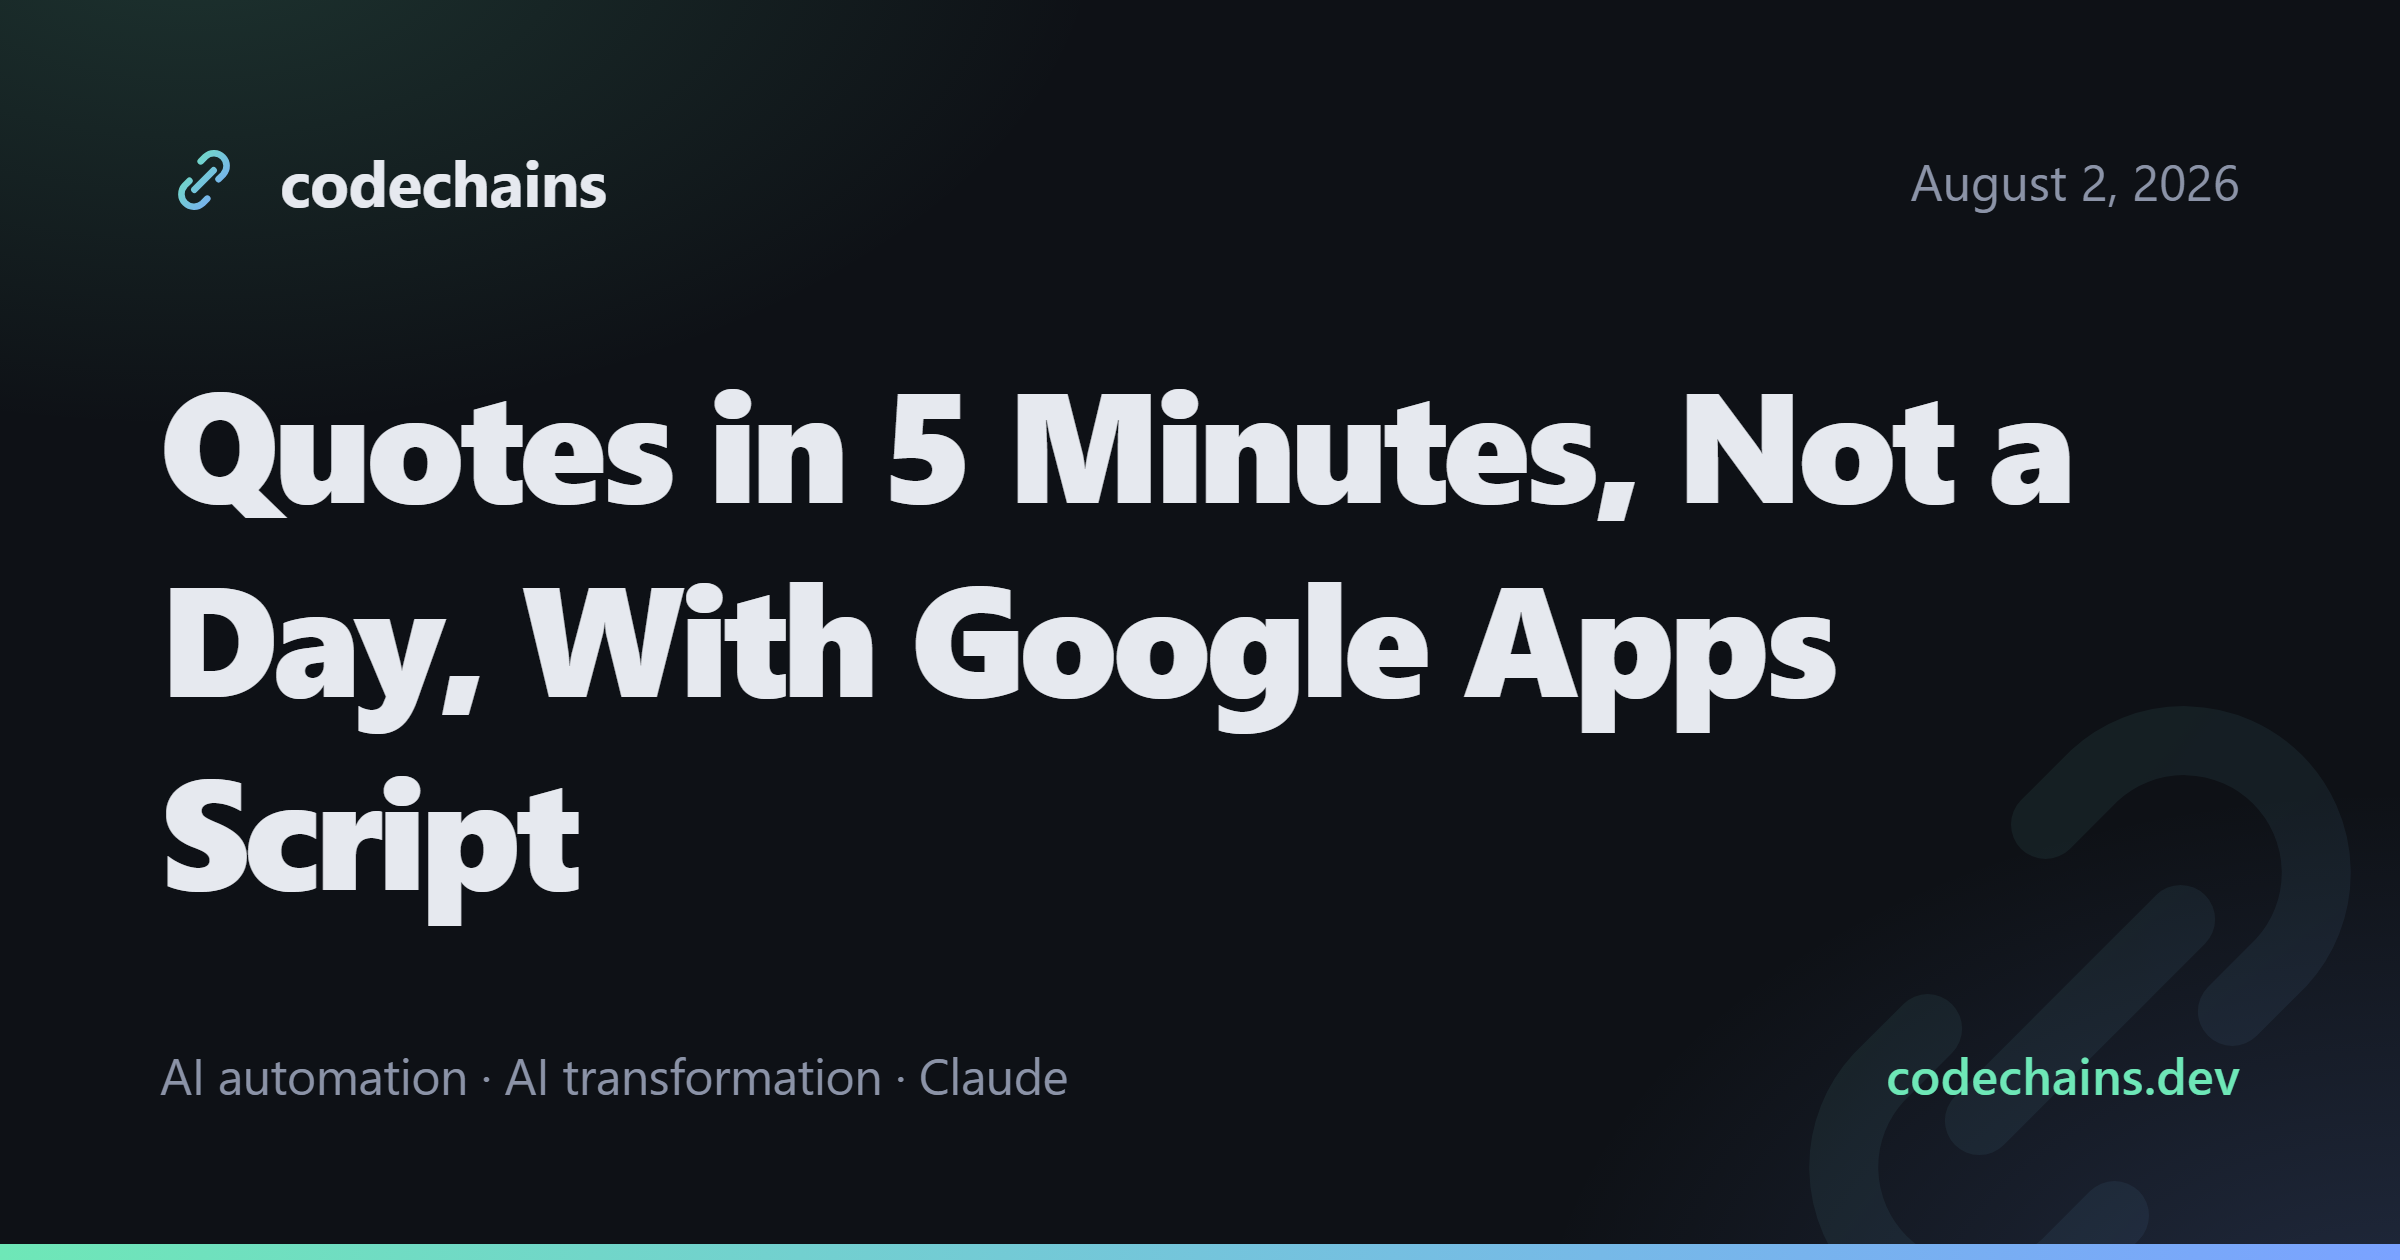
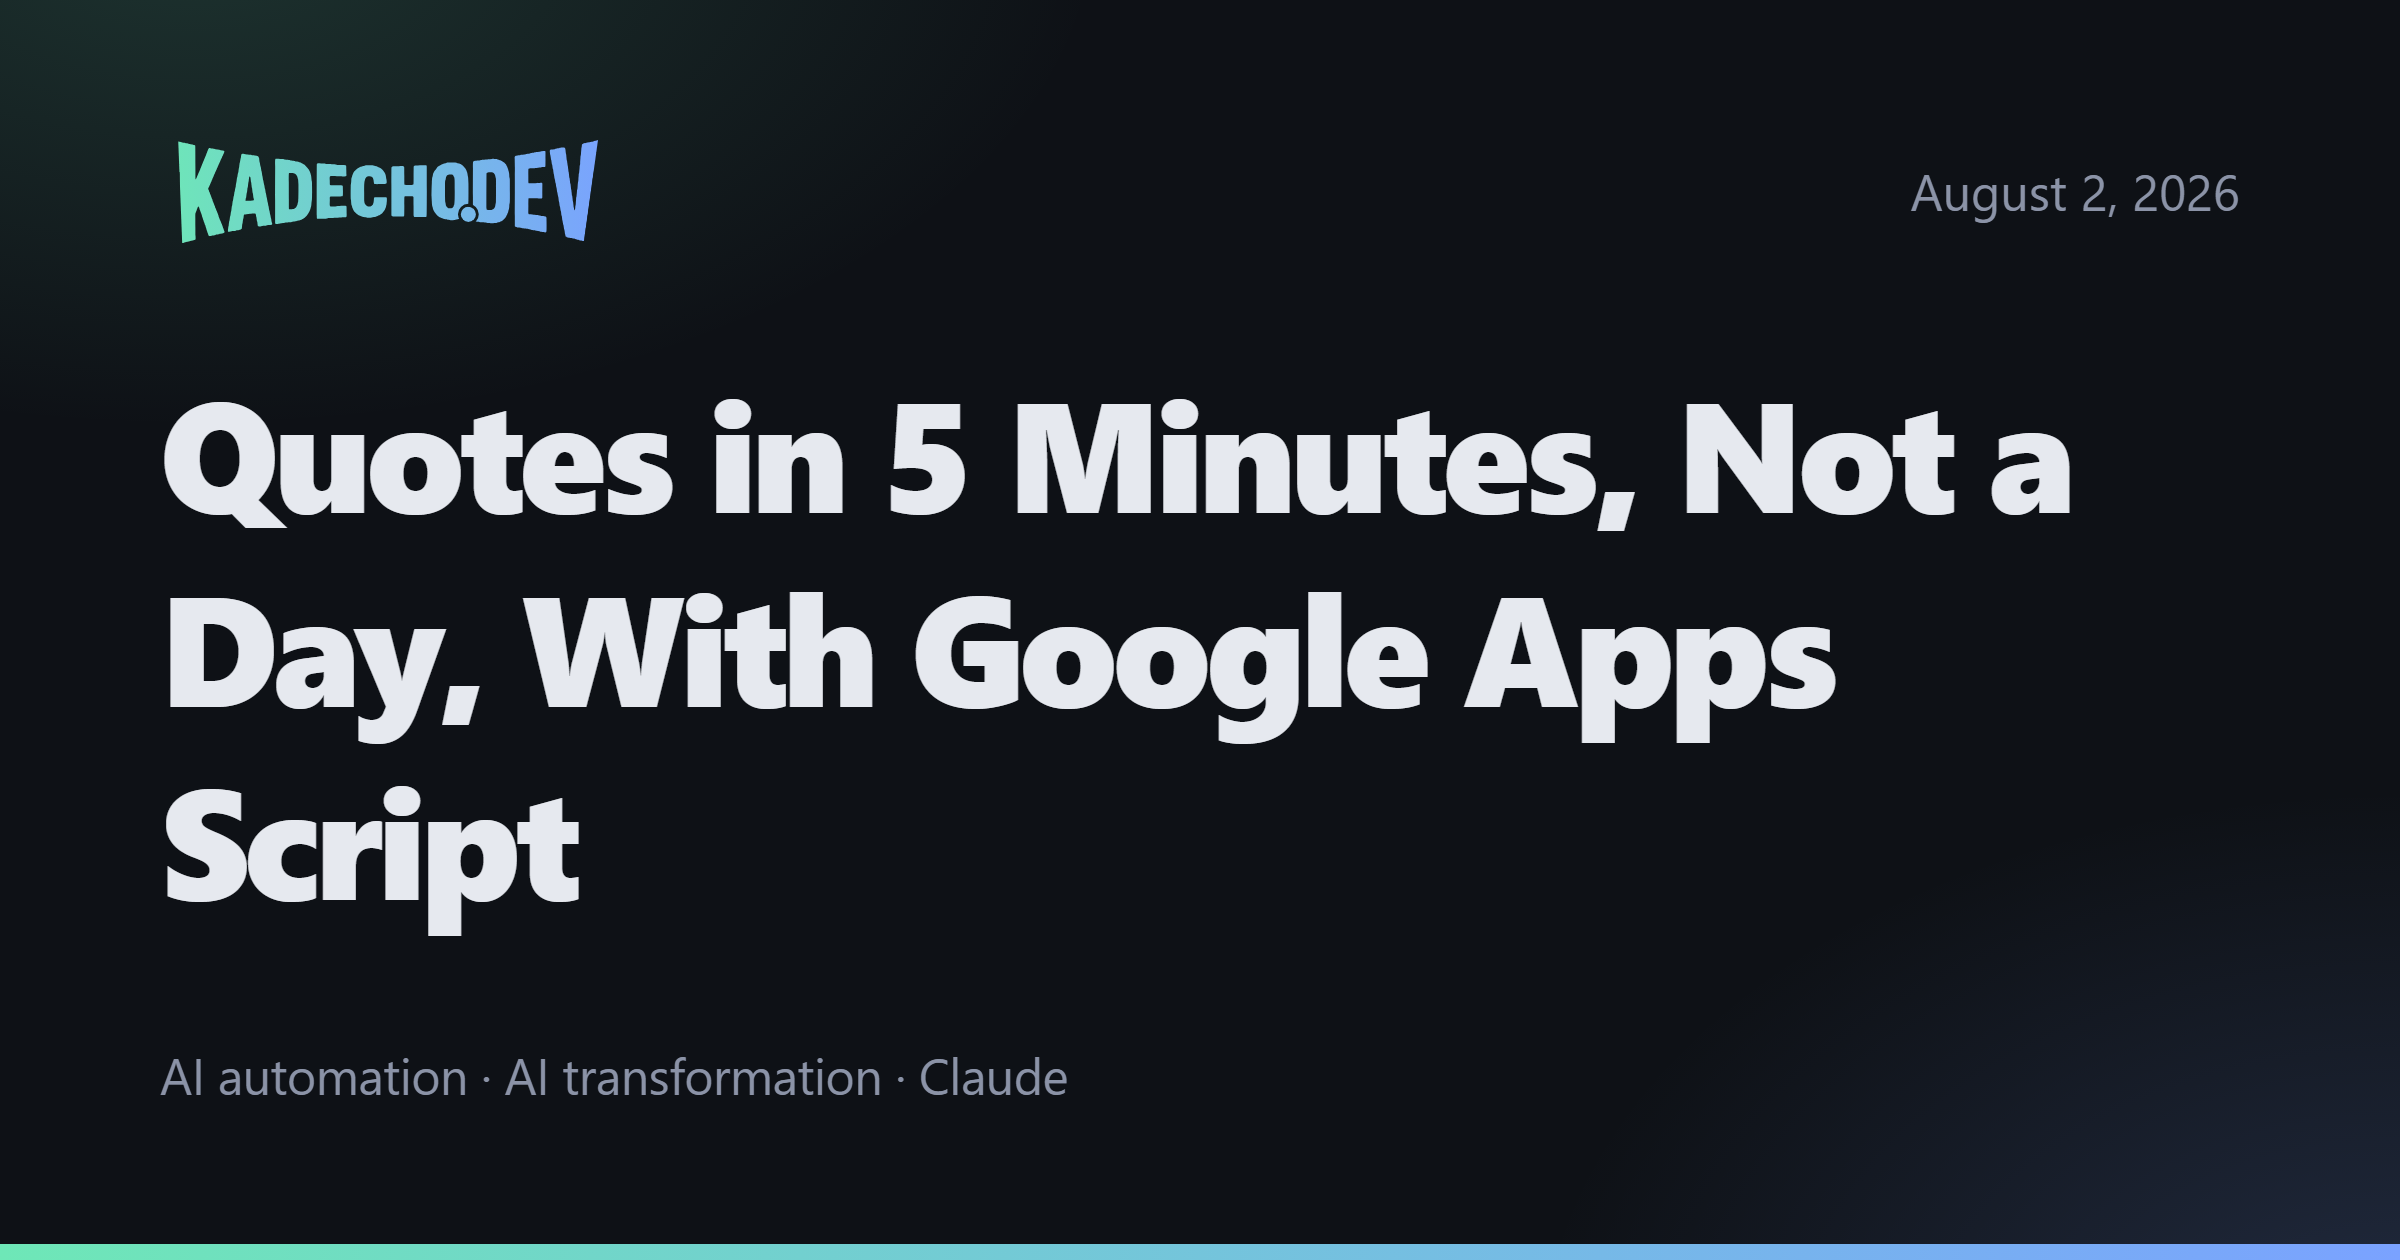
공유 카드에 워드마크 적용
카드 위쪽의 체인 아이콘과 "codechains" 글자를 워드마크 하나로 바꿨습니다.
헤더가 쓰는 파일을 그대로 읽어 오므로, 로고를 다시 만들면 카드도 같이 따라옵니다.

- 오른쪽 아래에 흐리게 깔려 있던 큰 체인 아이콘을 뺐습니다.
  헤더에서 뺀 아이콘이 카드에만 남으면 브랜드가 갈라집니다.
- 아래쪽 오른편의 주소 표기도 뺐습니다. 위쪽 워드마크가 이미 도메인입니다.
- 안 쓰게 된 체인 아이콘 상수를 지웠습니다.
- 카드 9장을 다시 만들었습니다.

만들고 나서 PNG 픽셀을 열어 워드마크가 실제로 그려졌는지 확인했습니다.
처음에는 안 그려졌습니다. 크기 속성을 뗀다는 것이 파일 전체에 걸려서
마스크 안쪽 rect 의 크기까지 지웠고, 마스크가 통째로 검게 되어 로고가 사라졌습니다.
루트 svg 태그에만 걸리도록 고쳤습니다.

diff --git a/scripts/make-og.js b/scripts/make-og.js
@@ -55,12 +55,19 @@ function findChrome() {
   return candidates.find((p) => fs.existsSync(p)) || null;
 }
 
-const LOGO = `<svg viewBox="0 0 32 32" fill="none" xmlns="http://www.w3.org/2000/svg">
-<path d="M12.5 19.5l7-7" stroke="url(#g)" stroke-width="2.4" stroke-linecap="round"/>
-<path d="M14.8 9.2l1.7-1.7a4.6 4.6 0 016.5 6.5l-1.7 1.7" stroke="url(#g)" stroke-width="2.4" stroke-linecap="round"/>
-<path d="M17.2 22.8l-1.7 1.7a4.6 4.6 0 01-6.5-6.5l1.7-1.7" stroke="url(#g)" stroke-width="2.4" stroke-linecap="round"/>
-<defs><linearGradient id="g" x1="6" y1="8" x2="26" y2="24" gradientUnits="userSpaceOnUse">
-<stop stop-color="#6ee7b7"/><stop offset="1" stop-color="#7aa2ff"/></linearGradient></defs></svg>`;
+/* 카드 위쪽에 들어가는 워드마크.
+   헤더가 쓰는 것과 같은 파일을 그대로 읽어 옵니다. 로고를 다시 만들면(npm run wordmark)
+   카드도 같이 따라오도록, 여기에 모양을 베껴 두지 않습니다.
+   카드 배경이 어두우므로 어두운 테마용을 씁니다.
+
+   크기는 CSS 로 정하므로 루트 svg 의 width/height 만 뗍니다.
+   파일 전체에서 떼면 안 됩니다. 안쪽 마스크의 rect 크기까지 사라져서
+   마스크가 통째로 검게 되고 로고가 아예 안 보입니다. 실제로 한 번 그렇게 나갔습니다. */
+const WORDMARK = fs
+  .readFileSync(path.join(ROOT, "assets/logo/wordmark-nowing-dark.svg"), "utf8")
+  .replace(/^<\?xml[^>]*\?>\s*/, "")
+  .replace(/<svg\b[^>]*>/, (tag) => tag.replace(/\s+(width|height)="[^"]*"/g, ""));
+
 
 /* 제목 길이는 글마다 다릅니다. 넘치면 카드 밖으로 잘려 나가므로,
    캡처 직전에 제목이 자리에 들어갈 때까지 글자 크기를 줄입니다.
@@ -100,13 +107,10 @@ const STYLE = `
       radial-gradient(760px 420px at 8% -6%, rgba(110,231,183,.16), transparent 60%),
       radial-gradient(700px 460px at 100% 108%, rgba(122,162,255,.18), transparent 62%);
   }
-  /* 오른쪽 아래 큰 로고. 브랜드를 각인시키되 글자를 방해하지 않을 만큼만. */
-  .mark { position: absolute; right: -70px; bottom: -110px; width: 460px; height: 460px; opacity: .07; }
-  .mark svg { width: 100%; height: 100%; }
   .top { position: relative; display: flex; align-items: center; justify-content: space-between; }
   .row { display: flex; align-items: center; gap: 16px; }
-  .row svg { width: 44px; height: 44px; }
-  .wordmark { font-size: 32px; font-weight: 700; letter-spacing: -.01em; }
+  /* 워드마크. 폭이 높이의 네 배라 높이만 정하고 폭은 따라오게 둡니다. */
+  .row svg { height: 54px; width: auto; display: block; }
   .date { font-size: 25px; color: #8b93a7; font-variant-numeric: tabular-nums; }
   .middle { position: relative; flex: 1; display: flex; align-items: center; min-height: 0; padding: 26px 0; }
   h1 { font-size: 78px; line-height: 1.24; font-weight: 800; letter-spacing: -.035em; word-break: keep-all; }
@@ -133,15 +137,13 @@ function cardHtml({ lang, heading, date, sub, fit }) {
 <body>
 <div class="card">
   <div class="glow"></div>
-  <div class="mark">${LOGO}</div>
   <div class="top">
-    <div class="row">${LOGO}<span class="wordmark">${esc(site.brand)}</span></div>
+    <div class="row">${WORDMARK}</div>
     ${date ? `<span class="date">${esc(date)}</span>` : ""}
   </div>
   <div class="middle"><h1${fit ? ` id="fit"` : ""}>${heading}</h1></div>
   <footer>
     <span class="sub">${esc(sub)}</span>
-    <span class="url">${esc(site.customDomain || "kadecho.dev")}</span>
   </footer>
   <div class="bar"></div>
 </div>
